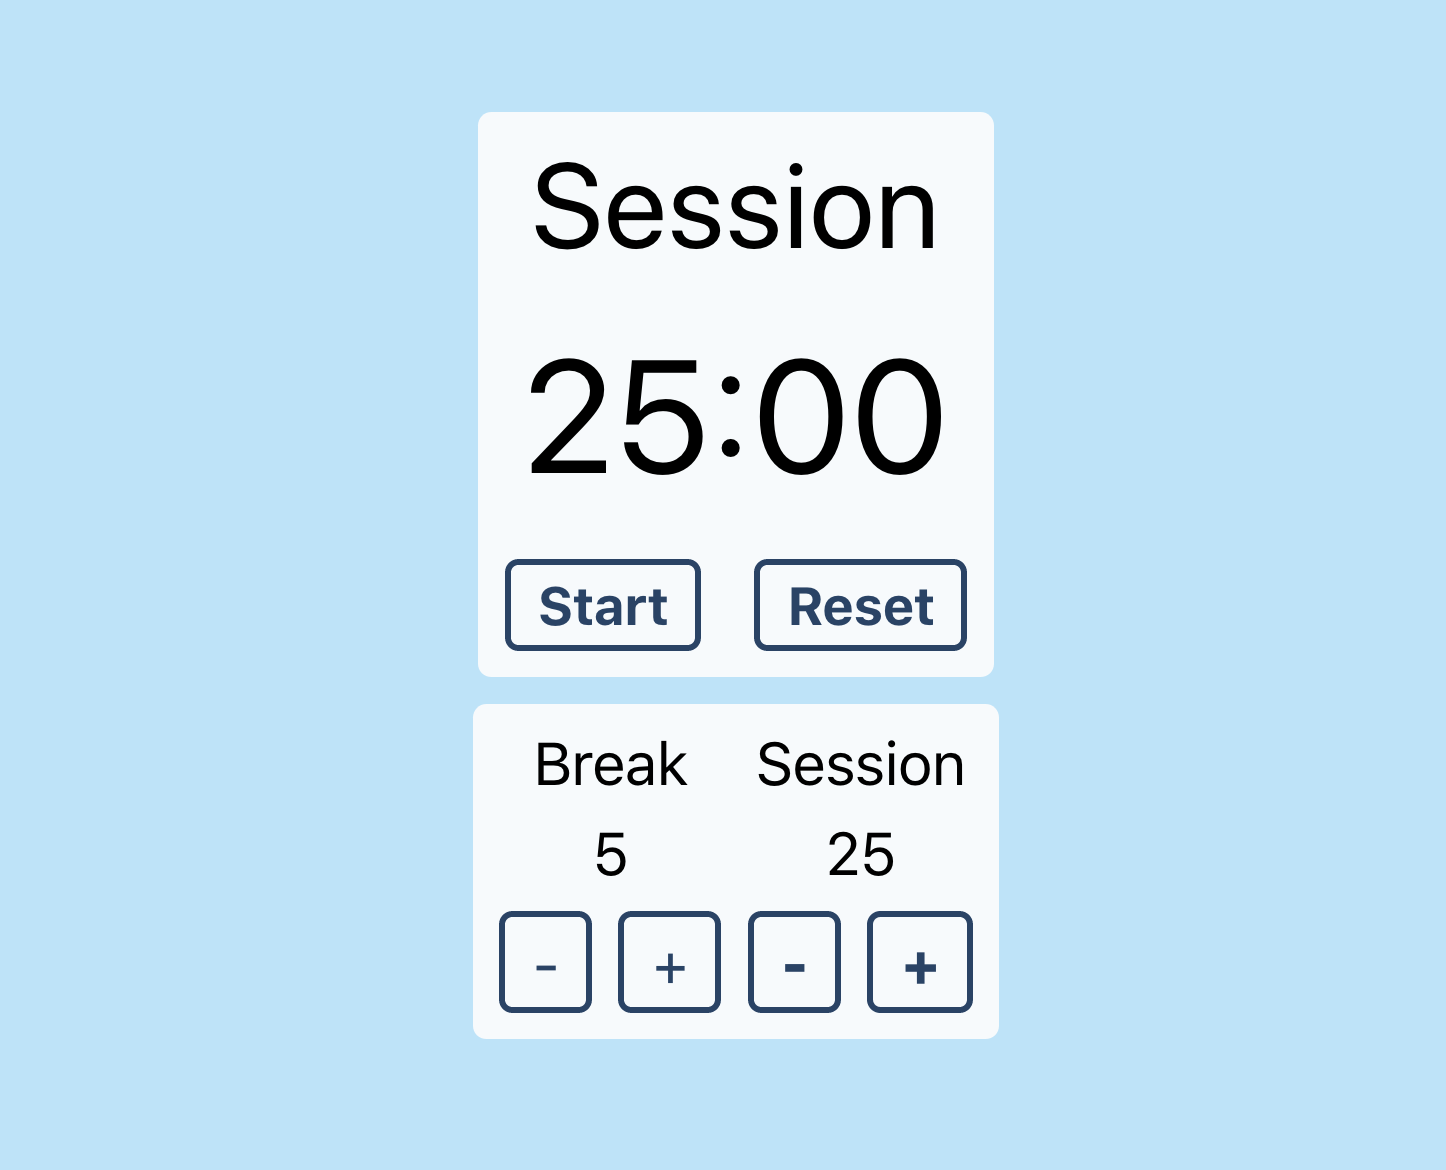
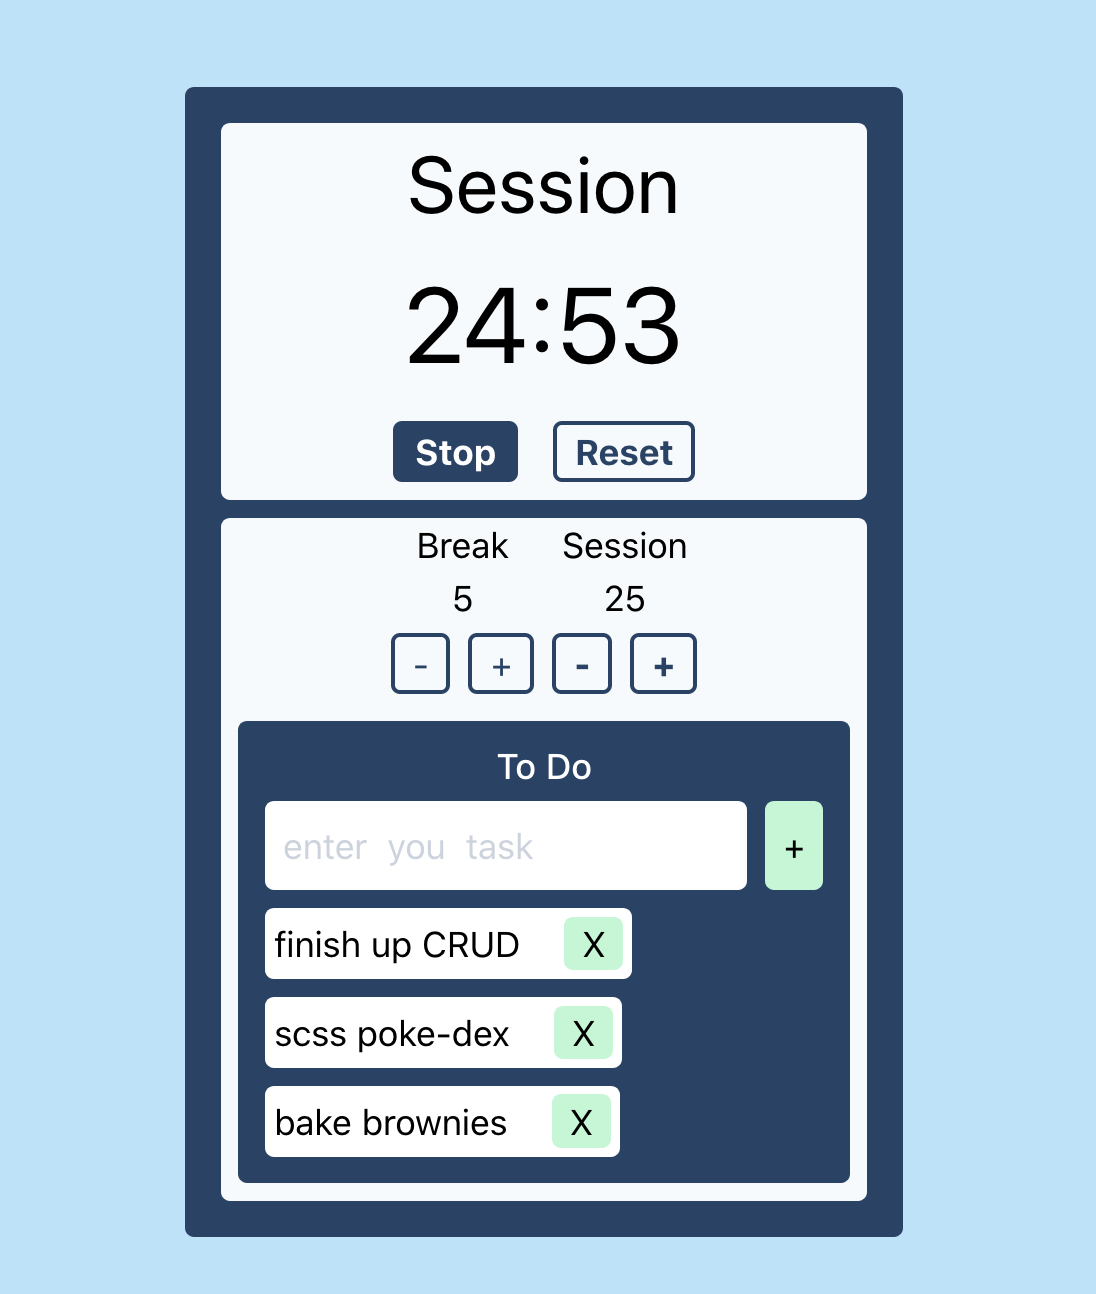
adjusting  width

diff --git a/src/App.js b/src/App.js
@@ -89,7 +89,7 @@ function App() {
 
   return (
 
-    <div className="App flex h-screen items-center justify-center w-56 text-center bg-blue-200 ">
+    <div className="App flex h-screen items-center justify-center  text-center bg-blue-200 ">
         <div className="flex-col bg-blue-900 m-4 rounded p-4">
       <div className="flex bg-gray-100 justify-center items-center rounded text-center ">
         <TimeLeft sessionlength={sessionlength}
